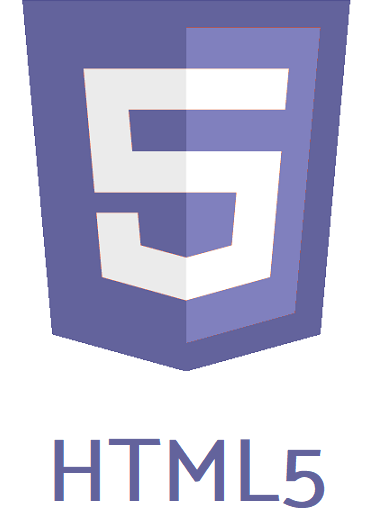
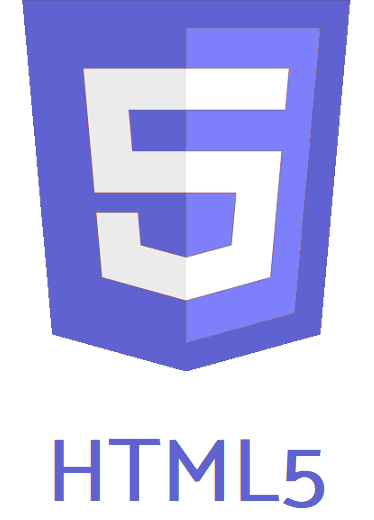
Regular update

diff --git a/src/components/Contact.js b/src/components/Contact.js
@@ -20,7 +20,7 @@ const Contact = () => (
       <p>You can send me a message or contact me via e-mail at: <mark>ivan3123708@gmail.com</mark>.</p>
       <p>You can also visit my LinkedIn page, or check out my profiles on CodePen and GitHub, where you can see more of my work, on the links bellow.</p>
       <ul>
-        <li><a href="https://linkedin.com" target="blank"><i className="fa fa-linkedin-square fa-3x" aria-hidden="true"></i></a></li>
+        <li><a href="https://www.linkedin.com/in/ivan-jakimovski-b07b6b153/" target="blank"><i className="fa fa-linkedin-square fa-3x" aria-hidden="true"></i></a></li>
         <li><a href="https://github.com/ivan3123708" target="blank"><i className="fa fa-github fa-3x" aria-hidden="true"></i></a></li>
         <li><a href="https://codepen.io/ivan3123708/" target="blank"><i className="fa fa-codepen fa-3x" aria-hidden="true"></i></a></li>
       </ul>

diff --git a/src/styles/Contact.css b/src/styles/Contact.css
@@ -21,7 +21,7 @@
   width: 90%;
   padding: 1rem;
   background: #e3f5ff;
-  color: #505766;
+  color: #5A6782;
   font-size: 1.6rem;
   font-family: 'Catamaran';
   border: none;
@@ -45,11 +45,11 @@
 .contact-form button {
   margin-top: 2.5rem;
   padding: .3rem 1.8rem;
-  background: white;
-  color: #63639c;
+  background: white; 
+  color: #6062d1;
   font-size: 1.4rem;
   font-family: 'Catamaran';
-  border: .15rem solid #63639c;
+  border: .15rem solid #6062d1;
   border-radius: .5rem;
   cursor: pointer;
   -webkit-transition: .3s;
@@ -58,7 +58,7 @@
 }
 
 .contact-form button:hover {
-  background: #63639c;
+  background: #6062d1;
   color: white;
 }
 
@@ -81,7 +81,7 @@
 }
 
 .contact-links a {
-  color: #63639c;
+  color: #6062d1;
 }
 
 .contact-links i {

diff --git a/src/styles/Home.css b/src/styles/Home.css
@@ -3,7 +3,7 @@
   width: 100%;
   height: 8.5px;
   margin-top: 4.95rem;
-  background: #63639c;
+  background: #6062d1;
   z-index: 10; }
 
 .home {
@@ -12,7 +12,7 @@
   width: 100%;
   min-height: 100vh;
   margin: 0 auto -3.4rem auto;
-  background: #63639c;
+  background: #6062d1;
   color: white;
   text-align: center; }
 
@@ -22,7 +22,7 @@
   height: 300px;
   margin: auto;
   top: 10rem;
-  background: #63639c; }
+  background: #6062d1; }
 
 .ring {
   position: absolute;

diff --git a/src/styles/Home.scss b/src/styles/Home.scss
@@ -3,7 +3,7 @@
   width: 100%;
   height: 8.5px;
   margin-top: 4.95rem;
-  background: #63639c;
+  background: #6062d1;
   z-index: 10;
 }
 
@@ -13,7 +13,7 @@
   width: 100%;
   min-height: 100vh;
   margin: 0 auto -3.4rem auto;
-  background: #63639c;
+  background: #6062d1;
   color: white;
   text-align: center;
 }
@@ -24,7 +24,7 @@
   height: 300px;
   margin: auto;
   top: 10rem;
-  background: #63639c;
+  background: #6062d1;
 }
 
 .ring {

diff --git a/src/styles/Project.css b/src/styles/Project.css
@@ -45,9 +45,9 @@
   margin: 0 2rem;
   padding: .3rem 1.8rem;
   background: white;
-  color: #63639c;
+  color: #6062d1;
   font-size: 1.4rem;
-  border: .15rem solid #63639c;
+  border: .15rem solid #6062d1;
   border-radius: .5rem;
   cursor: pointer;
   -webkit-transition: .3s;
@@ -56,7 +56,7 @@
 }
 
 .project .buttons a:hover {
-  background: #63639c;
+  background: #6062d1;
   color: white;
 }
 

diff --git a/public/index.html b/public/index.html
@@ -10,7 +10,7 @@
     -->
     <link rel="manifest" href="%PUBLIC_URL%/manifest.json">
     <link rel="shortcut icon" href="%PUBLIC_URL%/favicon.ico">
-    <link rel="icon" href="%PUBLIC_URL%/ij.png">
+    <link rel="icon" href="%PUBLIC_URL%/circle.png">
     <!--
       Notice the use of %PUBLIC_URL% in the tags above.
       It will be replaced with the URL of the `public` folder during the build.

diff --git a/src/styles/index.css b/src/styles/index.css
@@ -11,7 +11,7 @@ body {
   height: 100%;
   font-family: 'Catamaran', sans-serif;
   font-size: 1.8rem;
-  color: #505766;
+  color: #5A6782;
 }
 
 input:focus,
@@ -27,5 +27,5 @@ button:focus {
 
 mark {
     background-color: #e3f5ff;
-    color: #505766;
+    color: #5A6782;
 }

diff --git a/src/styles/Footer.css b/src/styles/Footer.css
@@ -5,7 +5,7 @@
   margin: 0;
   top: 0;
   text-align: center;
-  background: #63639c;
-  color: #a9a9ff;
+  background: #6062d1;
+  color: #BDBEEF;
   border-top: 2px solid #51d6ff;
 }

diff --git a/src/styles/Header.css b/src/styles/Header.css
@@ -2,7 +2,7 @@
   position: fixed;
   width: 100%;
   top: 0;
-  background: #63639c;
+  background: #6062d1;
   box-shadow: 0 .3rem .5rem #00000080;
   z-index: 5;
 }
